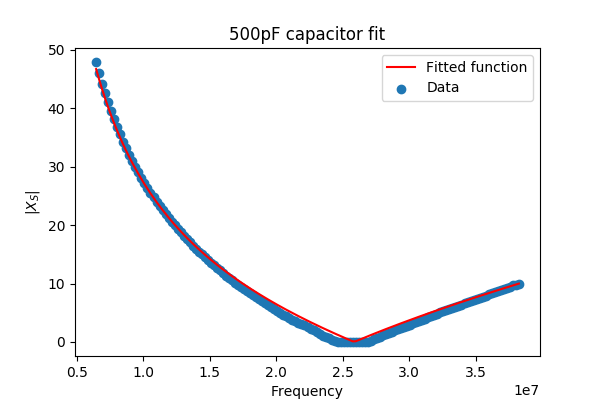
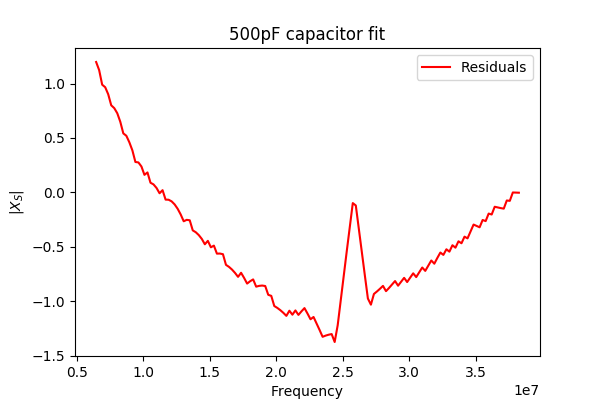
stuff

diff --git a/phys3310/plotTrans.py b/phys3310/plotTrans.py
@@ -2,16 +2,18 @@ import csv
 import math
 import numpy as np
 from scipy import optimize
+from scipy import stats
 from matplotlib import pyplot as plt
 
 _FILENAME = 'rg-6u.csv'
 _INPUT = []
 _MAX_LINE = -1
+_IMG_NAME = 'smallRg6u_1'
 
 _F_COL=0
 _X_COL=7
 
-def read_file(filename=_FILENAME, startline=2, endline=_MAX_LINE):
+def read_file(filename=_FILENAME, startline=5, endline=_MAX_LINE):
     """General csv reading"""
     global _INPUT
     with open(filename) as csv_file:
@@ -20,7 +22,13 @@ def read_file(filename=_FILENAME, startline=2, endline=_MAX_LINE):
         for row in csv_reader:
             line_count += 1
             if line_count >= startline and (line_count <= endline or endline==-1):
-                _INPUT += [row]
+                if (float(row[_X_COL])<1000):
+                    if(float(row[_F_COL])==158636875.0 or float(row[_F_COL])==158412000.0
+                    or float(row[_F_COL])==158187125.0 or float(row[_F_COL])==157962250.0): # bad point(s)
+                        # print(line_count)
+                        pass
+                    else:
+                        _INPUT += [row]
 
 
 def extract_col(input, col_num):
@@ -32,27 +40,61 @@ def extract_col(input, col_num):
 
 # data fitting: referred to http://scipy-lectures.org/intro/scipy/auto_examples/plot_curve_fit.html
 def test_func(f, Z, F):
-    # return abs(1/(2*math.pi*f*C)-2*math.pi*f*L)
     return [abs(Z/(math.tan(2*math.pi*_f/F))) for _f in f]
+
+def residual(x_data, p0, p1, y_data):
+    res=[]
+    for i in range(len(y_data)):
+        res+=[y_data[i]-test_func(x_data, params[0], params[1])[i]]
+    return res
 
 read_file()
 
 x_data=extract_col(_INPUT, _F_COL)
 y_data=extract_col(_INPUT, _X_COL)
 
-params, params_covariance = optimize.curve_fit(test_func, 
+_fit=False
+_calc_SE=True
+_residual=True
+
+if (_fit):
+    params, pcov = optimize.curve_fit(test_func, 
     x_data,
     y_data,
-    p0=[1e1, 1e-9])
+    p0=[ 85.8792202, 1.06791415e08])
     #p0=None)
+
+if _calc_SE:
+    params=[ 85.8792202, 1.07457290e08]
+
+if (_residual):
+    plt.figure(figsize=(6, 4))
+    # plt.scatter(x_data, y_data, label='Data')
+    plt.plot(x_data, residual(x_data, params[0], params[1], y_data),
+            label='Fitted function', color='red')
+    plt.ylabel(r'Impedence($\Omega$)')
+    plt.xlabel('Frequency(Hz)')
+    plt.legend(loc='best')
+    plt.savefig("{}_{}".format(_IMG_NAME,'residual.png'))
 
 plt.figure(figsize=(6, 4))
 plt.scatter(x_data, y_data, label='Data')
 plt.plot(x_data, test_func(x_data, params[0], params[1]),
-         label='Fitted function')
-
+        label='Fitted function', color='red')
+plt.ylabel(r'Impedence($\Omega$)')
+plt.xlabel('Frequency(Hz)')
 plt.legend(loc='best')
-
-plt.show()
+plt.savefig("{}.png".format(_IMG_NAME))
 
 print(params)
+if(_fit):
+    perr = np.sqrt(np.diag(pcov))
+    print(perr)
+else:
+    (x,p) = stats.chisquare(y_data, f_exp=test_func(x_data, params[0], params[1]))
+    print(x)
+    print(p)
+    tf=test_func(x_data, params[0], params[1])
+    for i in range(len(tf)):
+        # print('{}: {}-{}'.format(i, x_data[i], tf[i]))
+        pass

diff --git a/phys3310/plot.py b/phys3310/plot.py
@@ -7,6 +7,7 @@ from matplotlib import pyplot as plt
 _FILENAME = '500pF-bindingport.csv'
 _INPUT = []
 _MAX_LINE = 170
+_IMG_NAME = '500pFResiduals'
 
 _F_COL=0
 _X_COL=6
@@ -58,17 +59,27 @@ params, pcov = optimize.curve_fit(test_func,
     p0=[500e-12, 90e-9])
     #p0=None)
 
+def residual(x_data, p0, p1, y_data):
+    res=[]
+    for i in range(len(y_data)):
+        res+=[y_data[i]-test_func(x_data, params[0], params[1])[i]]
+    return res
+
 plt.figure(figsize=(6, 4))
-plt.ylabel(r'$|X_S|$')
-plt.xlabel('Frequency')
+plt.ylabel('residual(F)')
+plt.xlabel('Frequency(Hz)')
 plt.title('500pF capacitor fit')
-plt.scatter(x_data, y_data, label='Data')
-plt.plot(x_data, test_func(x_data, params[0], params[1]),
-         label='Fitted function', color='red')
+# plt.scatter(x_data, y_data, label='Data')
+# plt.plot(x_data, test_func(x_data, params[0], params[1]),
+        #  label='Fitted function', color='red')
+
+plt.plot(x_data, residual(x_data, params[0], params[1],y_data),
+         label='Residuals', color='red')
+
 
 plt.legend(loc='best')
 
-plt.savefig('500pFfit.png')
+plt.savefig(_IMG_NAME)
 
 # c=[]
 # cerr=[]
